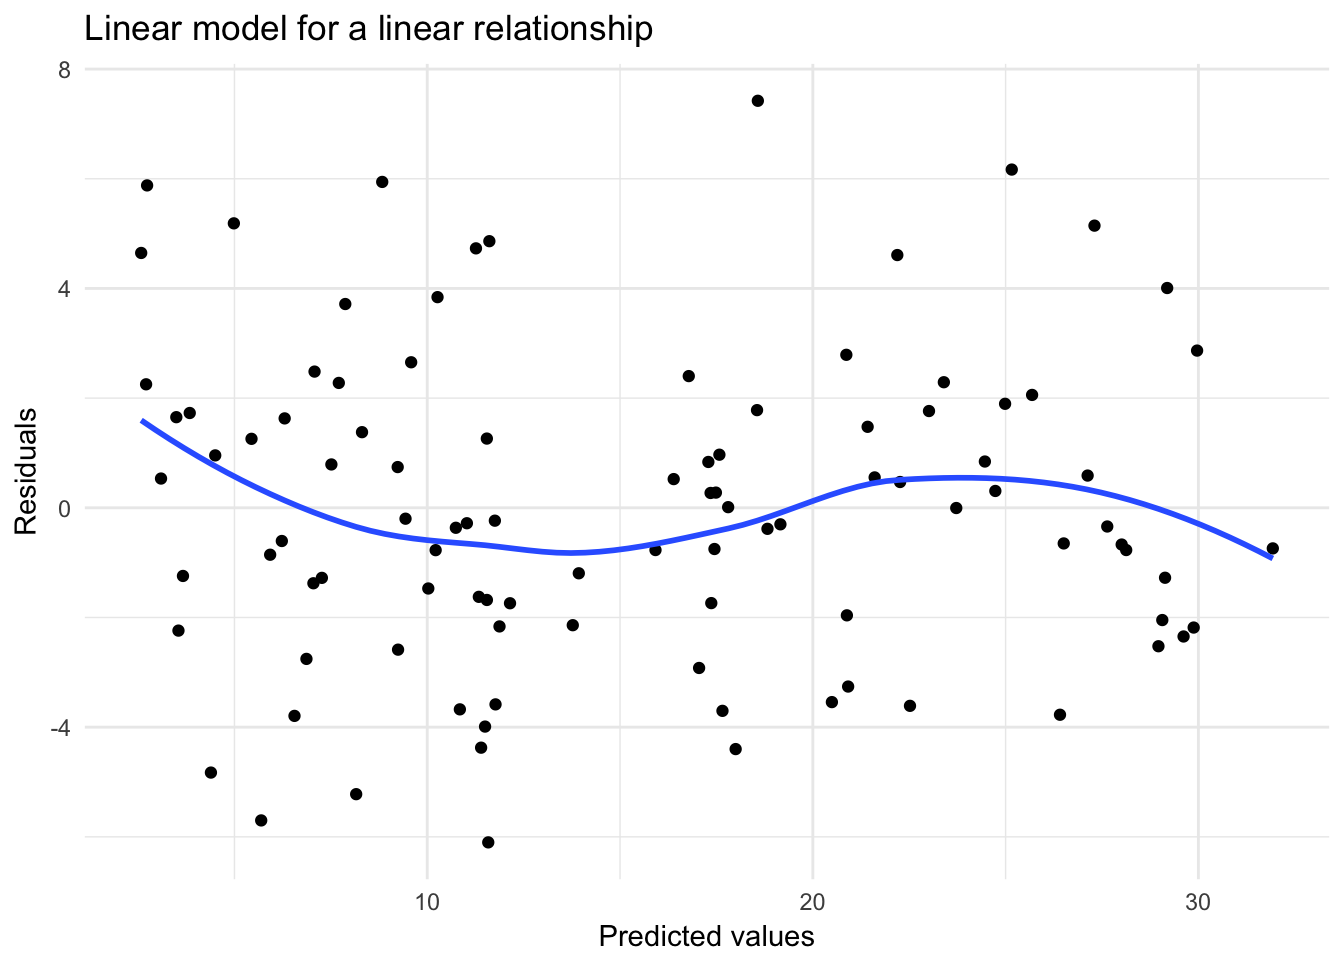
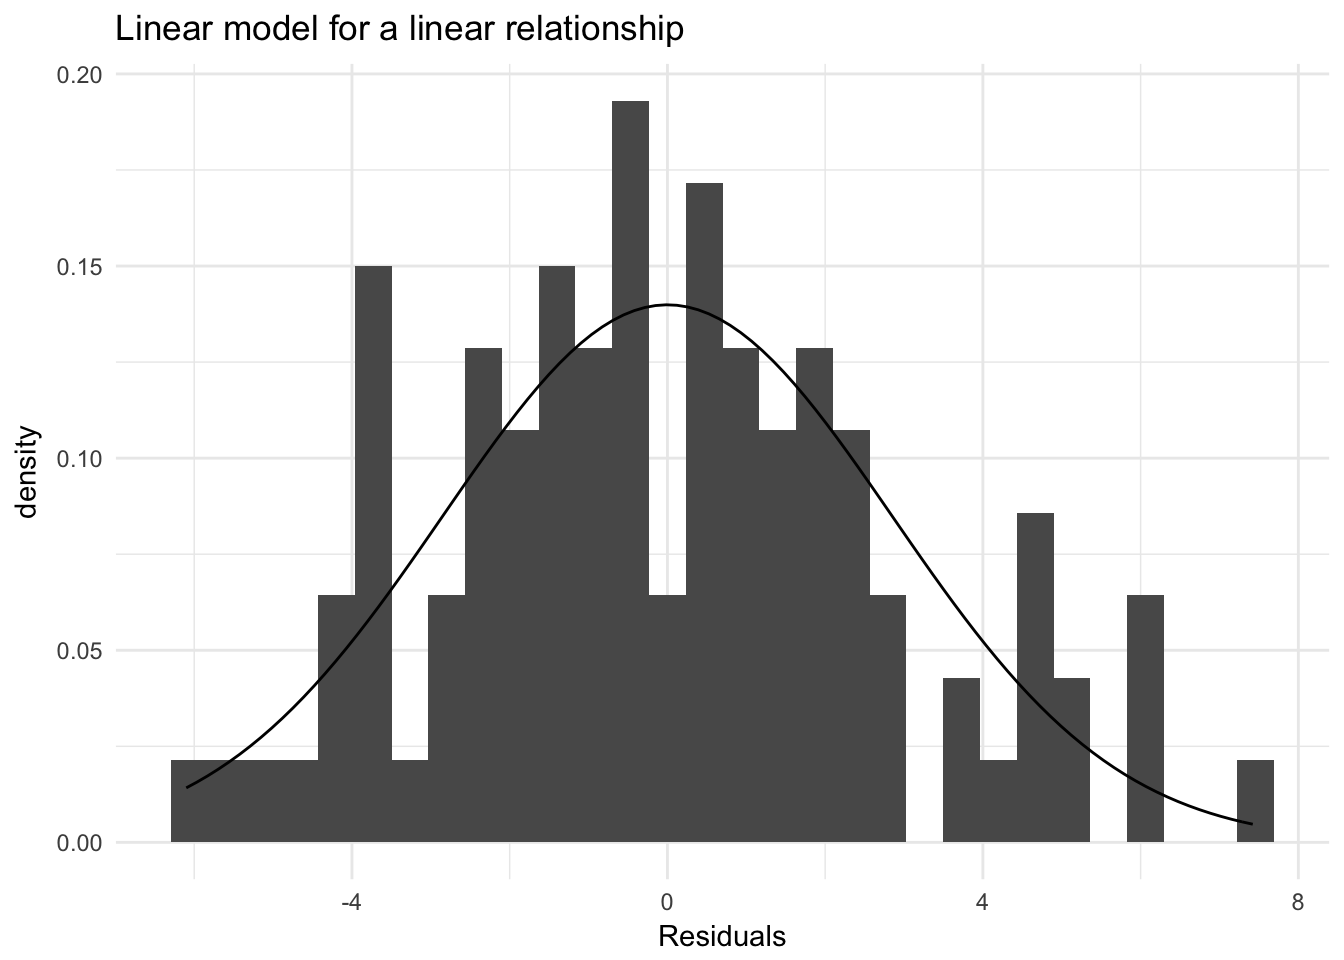
Add normal density curve to persp007

diff --git a/persp007_nonlinear.html b/persp007_nonlinear.html
@@ -401,17 +401,28 @@ sim_linear_mod &lt;-<span class="st"> </span><span class="kw">glm</span>(y ~<spa
 <span class="st">  </span><span class="kw">geom_smooth</span>(<span class="dt">method =</span> <span class="st">&quot;lm&quot;</span>) +
 <span class="st">  </span><span class="kw">labs</span>(<span class="dt">title =</span> <span class="st">&quot;Linear model for a linear relationship&quot;</span>)</code></pre></div>
 <p><img src="persp007_nonlinear_files/figure-html/sim-linear-1.png" width="672" /></p>
-<p>When this assumption holds, the <strong>residuals</strong> of the observations should not be correlated with the fitted values.</p>
-<div class="sourceCode"><pre class="sourceCode r"><code class="sourceCode r">sim_linear %&gt;%
+<p>When this assumption holds, the <strong>residuals</strong> of the observations should be distributed normally with an expected error <span class="math inline">\(E(\epsilon) = 0\)</span> and not be correlated with the fitted values.</p>
+<div class="sourceCode"><pre class="sourceCode r"><code class="sourceCode r">sim_linear_pred &lt;-<span class="st"> </span>sim_linear %&gt;%
 <span class="st">  </span><span class="kw">add_predictions</span>(sim_linear_mod) %&gt;%
-<span class="st">  </span><span class="kw">add_residuals</span>(sim_linear_mod) %&gt;%
-<span class="st">  </span><span class="kw">ggplot</span>(<span class="kw">aes</span>(pred, resid)) +
+<span class="st">  </span><span class="kw">add_residuals</span>(sim_linear_mod)
+
+<span class="co"># distribution of residuals</span>
+<span class="kw">ggplot</span>(sim_linear_pred, <span class="kw">aes</span>(resid)) +
+<span class="st">  </span><span class="kw">geom_histogram</span>(<span class="kw">aes</span>(<span class="dt">y =</span> ..density..)) +
+<span class="st">  </span><span class="kw">stat_function</span>(<span class="dt">fun =</span> dnorm,
+                <span class="dt">args =</span> <span class="kw">list</span>(<span class="dt">mean =</span> <span class="kw">mean</span>(sim_linear_pred$resid),
+                            <span class="dt">sd =</span> <span class="kw">sd</span>(sim_linear_pred$resid))) +
+<span class="st">  </span><span class="kw">labs</span>(<span class="dt">title =</span> <span class="st">&quot;Linear model for a linear relationship&quot;</span>,
+       <span class="dt">x =</span> <span class="st">&quot;Residuals&quot;</span>)</code></pre></div>
+<p><img src="persp007_nonlinear_files/figure-html/sim-linear-resid-1.png" width="672" /></p>
+<div class="sourceCode"><pre class="sourceCode r"><code class="sourceCode r"><span class="co"># predicted vs. residuals</span>
+<span class="kw">ggplot</span>(sim_linear_pred, <span class="kw">aes</span>(pred, resid)) +
 <span class="st">  </span><span class="kw">geom_point</span>() +
 <span class="st">  </span><span class="kw">geom_smooth</span>(<span class="dt">se =</span> <span class="ot">FALSE</span>) +
 <span class="st">  </span><span class="kw">labs</span>(<span class="dt">title =</span> <span class="st">&quot;Linear model for a linear relationship&quot;</span>,
        <span class="dt">x =</span> <span class="st">&quot;Predicted values&quot;</span>,
        <span class="dt">y =</span> <span class="st">&quot;Residuals&quot;</span>)</code></pre></div>
-<p><img src="persp007_nonlinear_files/figure-html/sim-linear-resid-1.png" width="672" /></p>
+<p><img src="persp007_nonlinear_files/figure-html/sim-linear-resid-2.png" width="672" /></p>
 <p>Inferences we draw from the model will be accurate and the accuracy of the model will be high.</p>
 <p>However if the relationship is not actually linear, then we should see a discernable pattern in the residuals plot. Now I simulate a data generating process:</p>
 <p><span class="math display">\[Y = 2 + 3X + 2X^2 + \epsilon\]</span></p>
@@ -427,16 +438,27 @@ sim_nonlinear_mod &lt;-<span class="st"> </span><span class="kw">glm</span>(y ~<
 <span class="st">  </span><span class="kw">labs</span>(<span class="dt">title =</span> <span class="st">&quot;Linear model for a non-linear relationship&quot;</span>)</code></pre></div>
 <p><img src="persp007_nonlinear_files/figure-html/sim-nonlinear-1.png" width="672" /></p>
 <p>Now that the assumption no longer holds true, we see a distinct polynomial relationship between the predicted values <span class="math inline">\(\hat{y}_i\)</span> and the residuals <span class="math inline">\((y_i - \hat{y}_i)^2\)</span>.</p>
-<div class="sourceCode"><pre class="sourceCode r"><code class="sourceCode r">sim_nonlinear %&gt;%
+<div class="sourceCode"><pre class="sourceCode r"><code class="sourceCode r">sim_nonlinear_pred &lt;-<span class="st"> </span>sim_nonlinear %&gt;%
 <span class="st">  </span><span class="kw">add_predictions</span>(sim_nonlinear_mod) %&gt;%
-<span class="st">  </span><span class="kw">add_residuals</span>(sim_nonlinear_mod) %&gt;%
-<span class="st">  </span><span class="kw">ggplot</span>(<span class="kw">aes</span>(pred, resid)) +
+<span class="st">  </span><span class="kw">add_residuals</span>(sim_nonlinear_mod)
+
+<span class="co"># distribution of residuals</span>
+<span class="kw">ggplot</span>(sim_nonlinear_pred, <span class="kw">aes</span>(resid)) +
+<span class="st">  </span><span class="kw">geom_histogram</span>(<span class="kw">aes</span>(<span class="dt">y =</span> ..density..)) +
+<span class="st">  </span><span class="kw">stat_function</span>(<span class="dt">fun =</span> dnorm,
+                <span class="dt">args =</span> <span class="kw">list</span>(<span class="dt">mean =</span> <span class="kw">mean</span>(sim_nonlinear_pred$resid),
+                            <span class="dt">sd =</span> <span class="kw">sd</span>(sim_nonlinear_pred$resid))) +
+<span class="st">  </span><span class="kw">labs</span>(<span class="dt">title =</span> <span class="st">&quot;Linear model for a non-linear relationship&quot;</span>,
+       <span class="dt">x =</span> <span class="st">&quot;Residuals&quot;</span>)</code></pre></div>
+<p><img src="persp007_nonlinear_files/figure-html/sim-nonlinear-resid-1.png" width="672" /></p>
+<div class="sourceCode"><pre class="sourceCode r"><code class="sourceCode r"><span class="co"># predicted vs. residuals</span>
+<span class="kw">ggplot</span>(sim_nonlinear_pred, <span class="kw">aes</span>(pred, resid)) +
 <span class="st">  </span><span class="kw">geom_point</span>() +
 <span class="st">  </span><span class="kw">geom_smooth</span>(<span class="dt">se =</span> <span class="ot">FALSE</span>) +
 <span class="st">  </span><span class="kw">labs</span>(<span class="dt">title =</span> <span class="st">&quot;Linear model for a non-linear relationship&quot;</span>,
        <span class="dt">x =</span> <span class="st">&quot;Predicted values&quot;</span>,
        <span class="dt">y =</span> <span class="st">&quot;Residuals&quot;</span>)</code></pre></div>
-<p><img src="persp007_nonlinear_files/figure-html/sim-nonlinear-resid-1.png" width="672" /></p>
+<p><img src="persp007_nonlinear_files/figure-html/sim-nonlinear-resid-2.png" width="672" /></p>
 <p>If we want to draw accurate inferences from the model, we need to relax the linearity assumption in some way.</p>
 </div>
 <div id="non-constant-variance-of-the-error-terms" class="section level3">
@@ -480,7 +502,7 @@ sim_hetero %&gt;%
        <span class="dt">x =</span> <span class="st">&quot;Predicted values&quot;</span>,
        <span class="dt">y =</span> <span class="st">&quot;Residuals&quot;</span>)</code></pre></div>
 <p><img src="persp007_nonlinear_files/figure-html/sim-hetero-1.png" width="672" /></p>
-<p>We see a distinct funnel-shape to the relationship between the predicted values and the residuals. This is because by assuming the variance is constant, we substantially over or underestimate the actual response <span class="math inline">\(Y_i\)</span> as <span class="math inline">\(X\)</span> increases.</p>
+<p>We see a distinct funnel-shape to the relationship between the predicted values and the residuals. This is because by assuming the variance is constant, we substantially over or underestimate the actual response <span class="math inline">\(Y_i\)</span> as <span class="math inline">\(X_i\)</span> increases.</p>
 </div>
 </div>
 <div id="how-to-relax-the-assumption" class="section level2">
